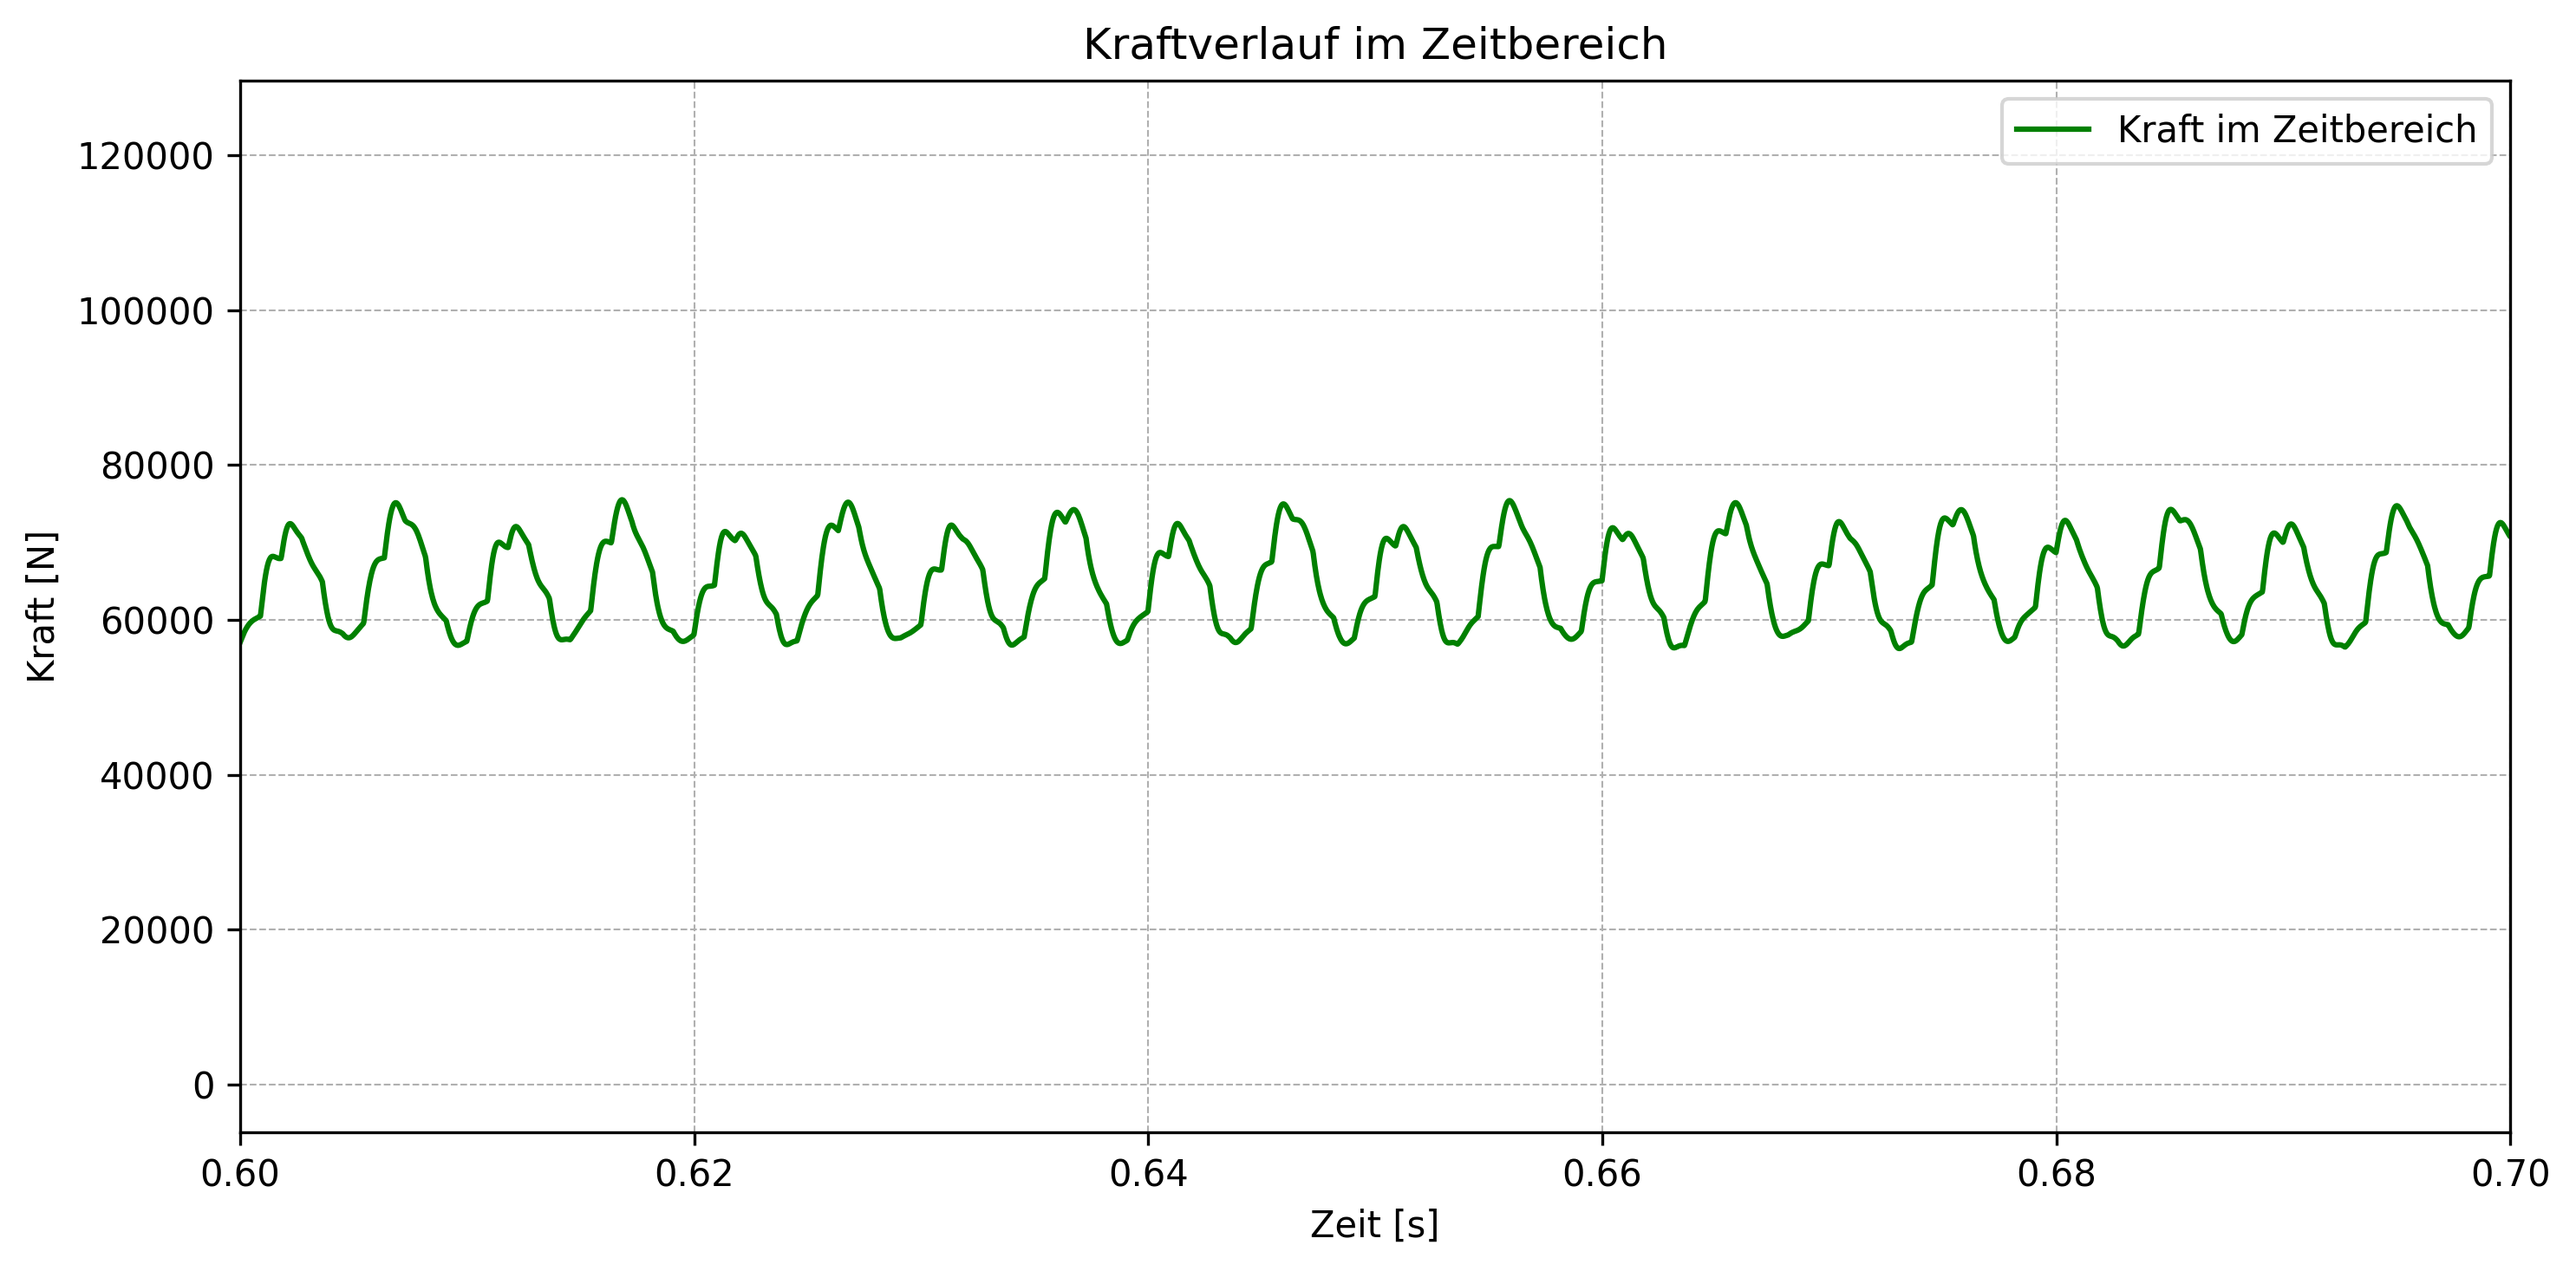
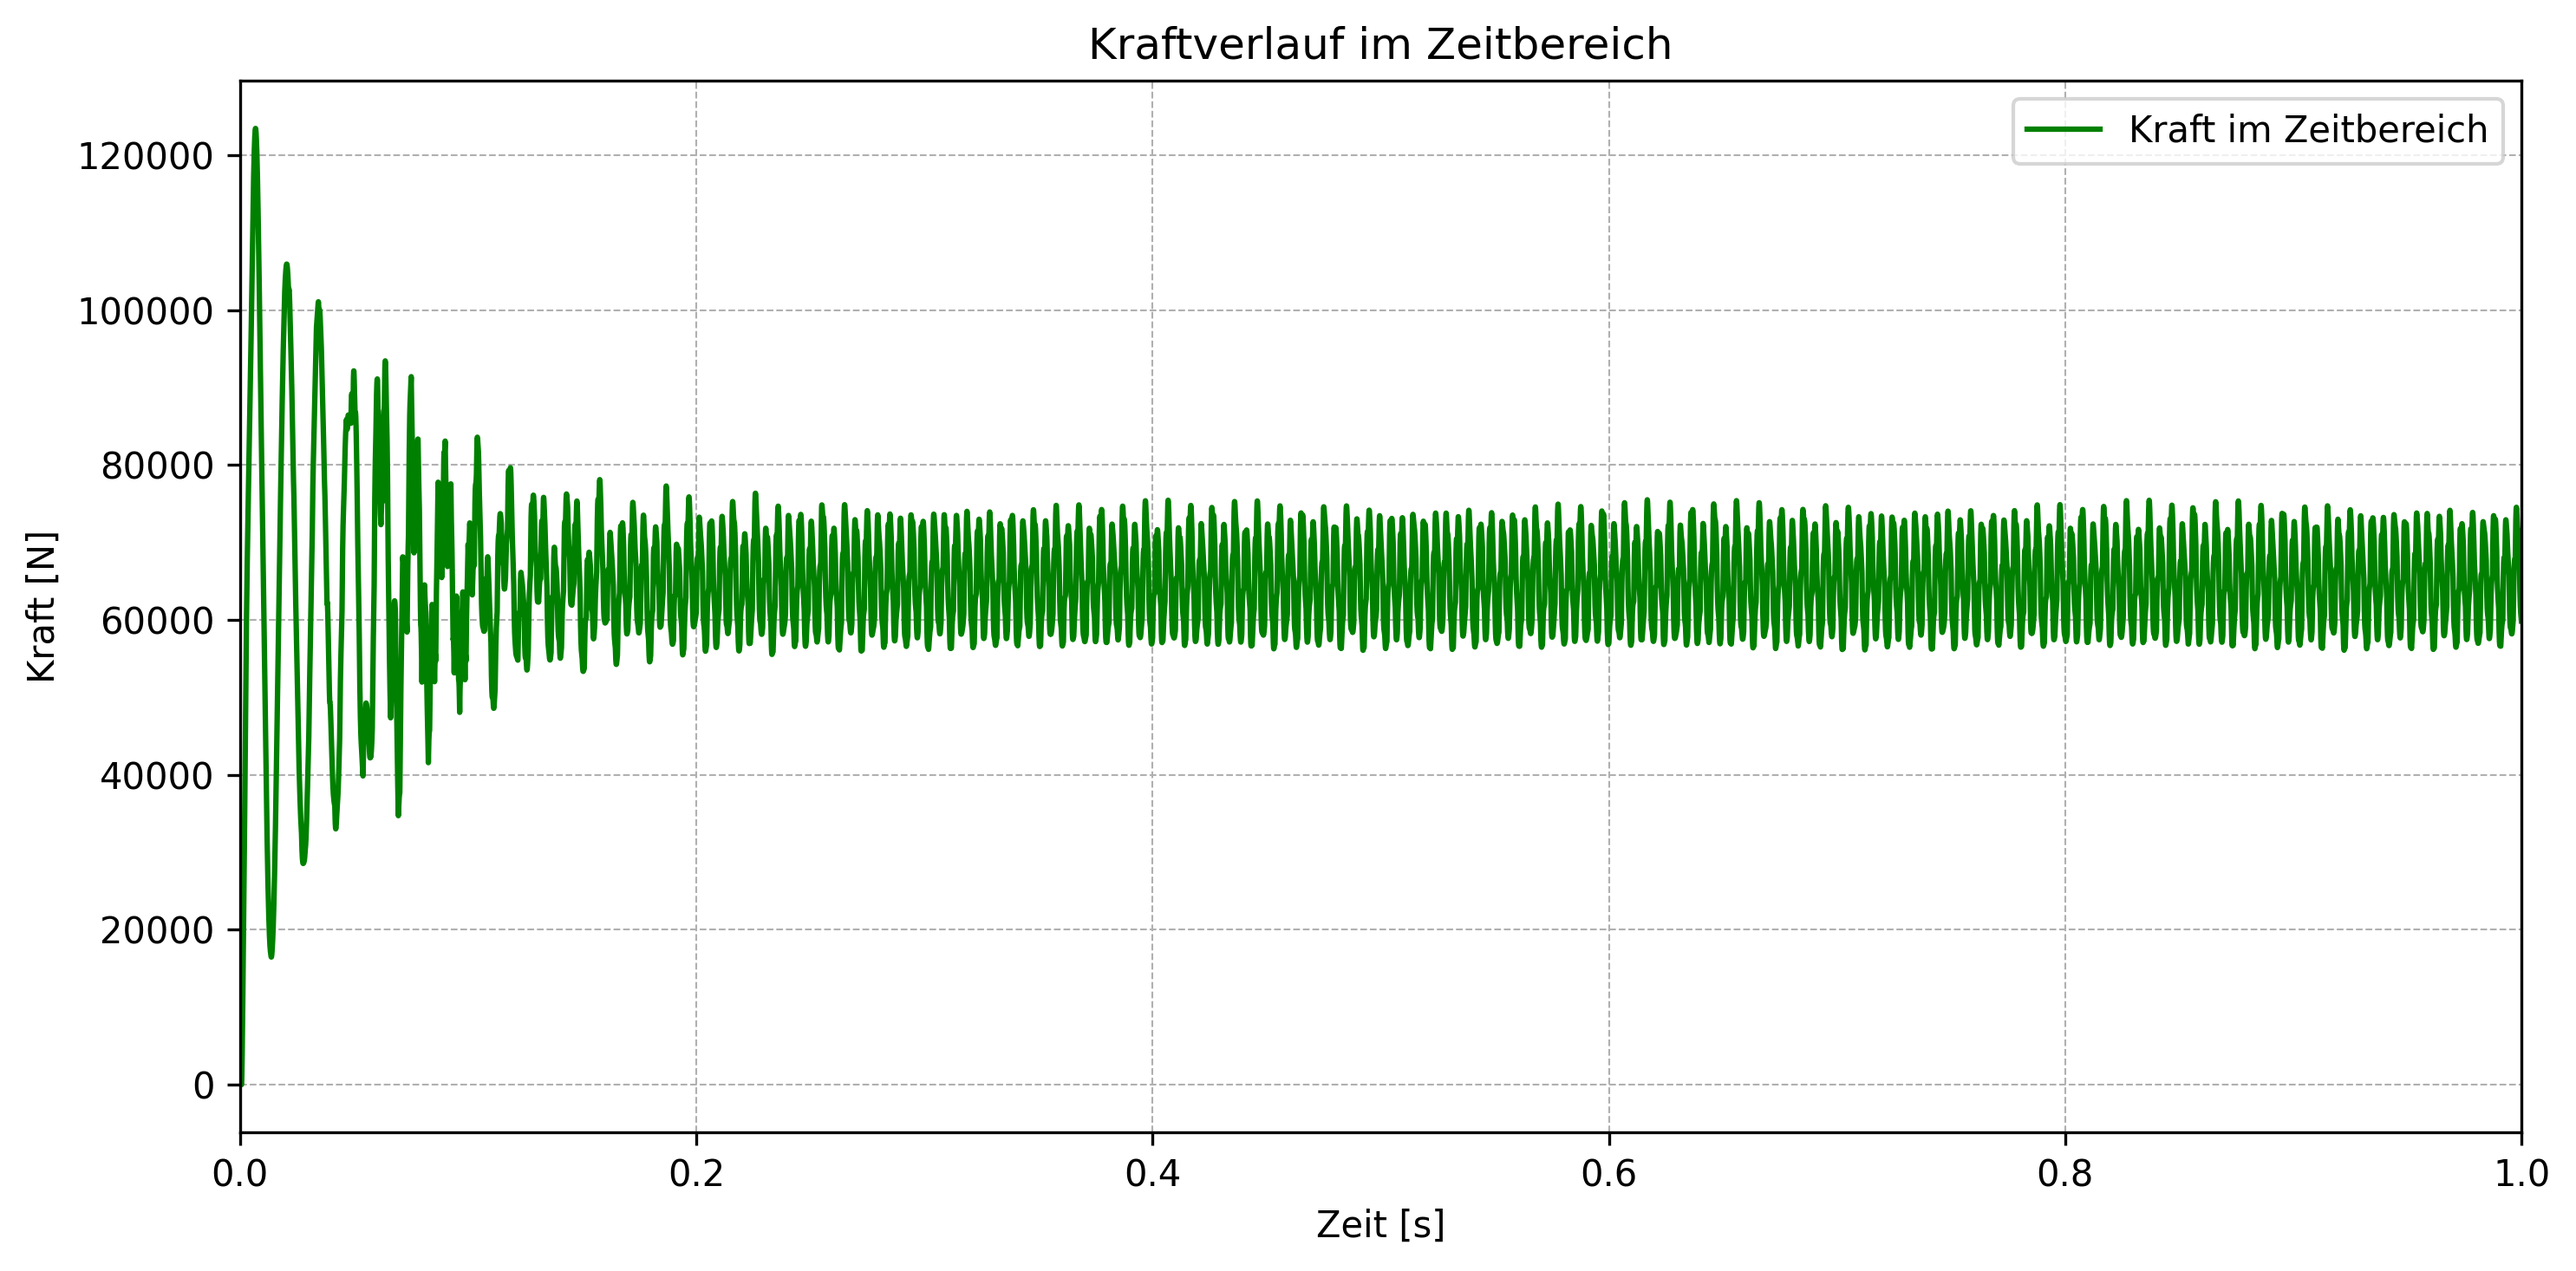
Kraftverlauf Einschwingen

diff --git a/Moving_Force.py b/Moving_Force.py
@@ -242,7 +242,7 @@ for i, deflection in enumerate(deflection_results.contact_point_deflection):
     plt.plot(time_array, deflection_results.force, color='green', linewidth=1.5, label='Kraft im Zeitbereich')
     plt.xlabel('Zeit [s]')
     plt.ylabel('Kraft [N]')
-    plt.xlim(0.6, 0.7)  # Limit x-axis to the requested simulation time
+    plt.xlim(0, req_simt)  # Limit x-axis to the requested simulation time
     plt.title('Kraftverlauf im Zeitbereich')
     plt.grid(True, which='both', linestyle='--', linewidth=0.5)
     plt.legend()
